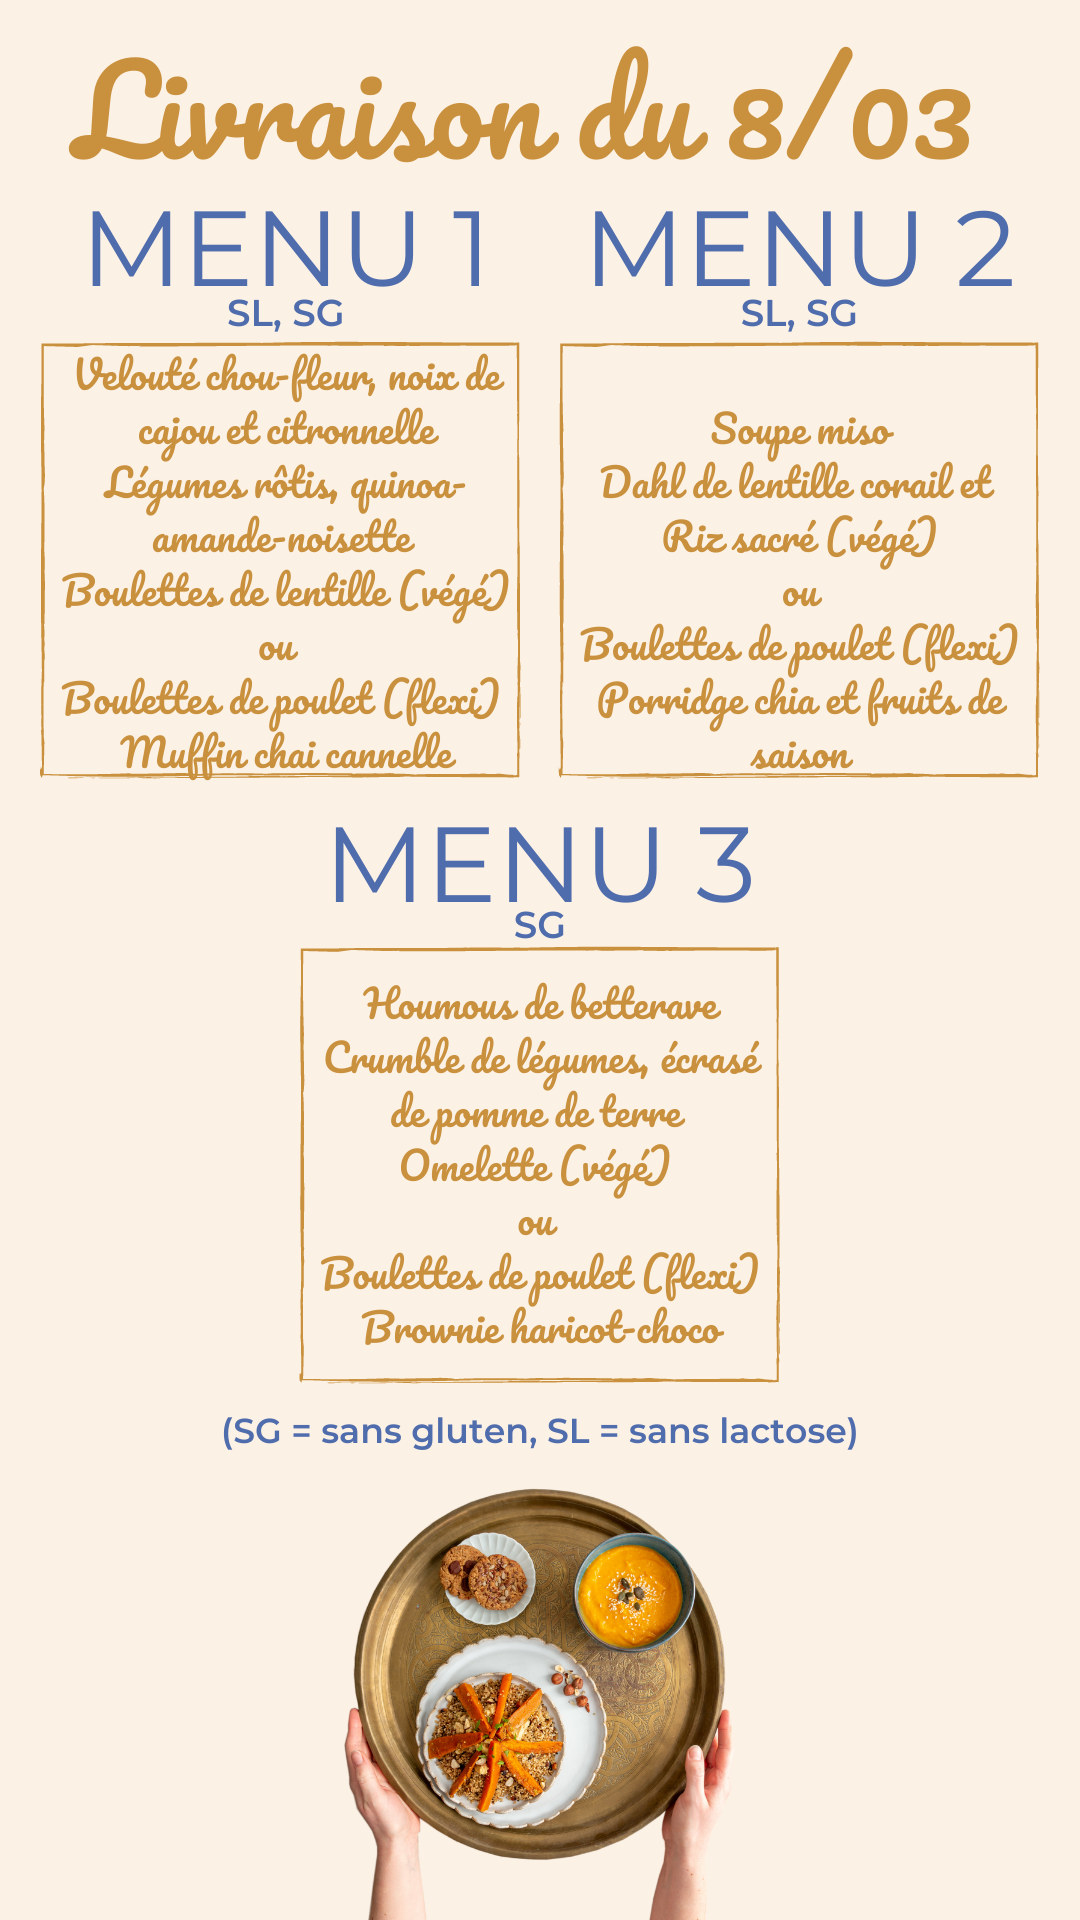
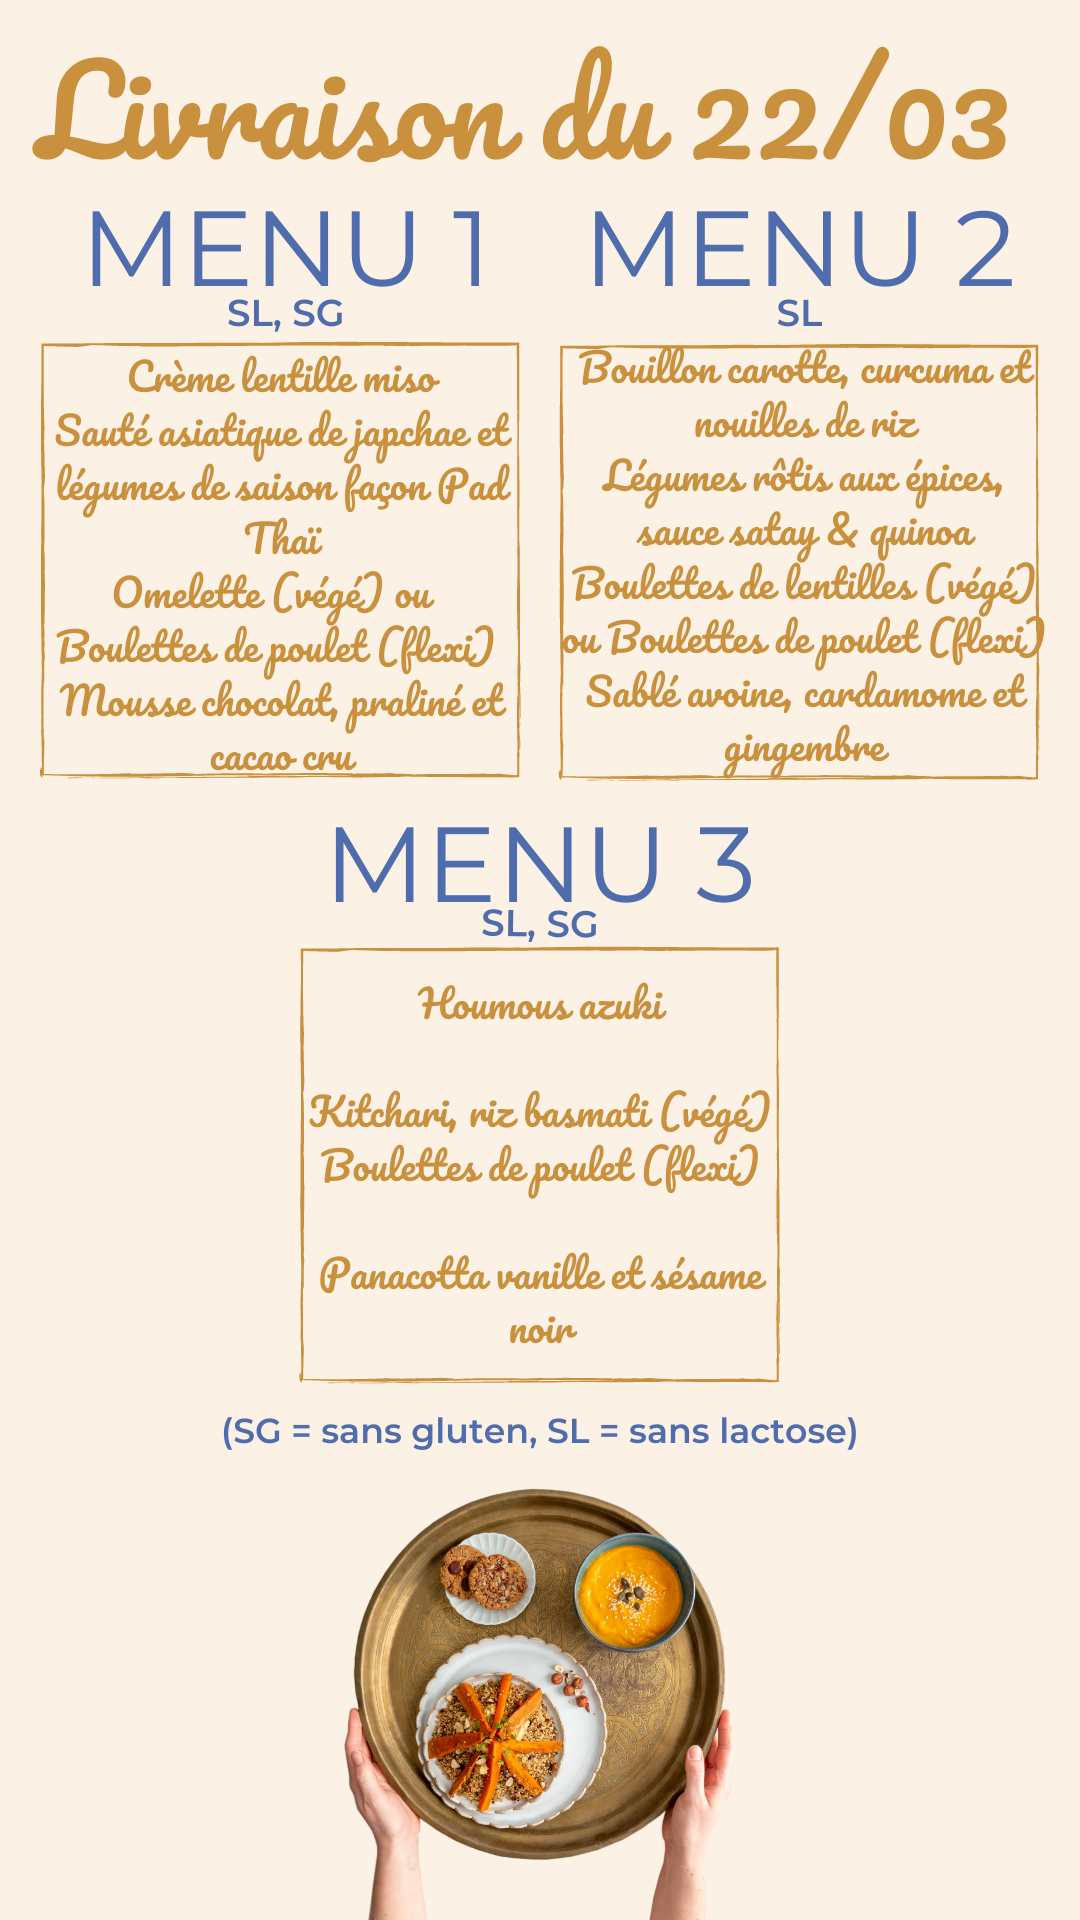
Update menus

diff --git a/src/pages/index.js b/src/pages/index.js
@@ -251,6 +251,11 @@ const Select = styled.select`
   }
 `;
 
+const datesLivraison = {
+  1: "22 mars",
+  2: "29 mars",
+};
+
 // markup
 const IndexPage = () => {
   const [formule, setFormule] = useState("");
@@ -593,7 +598,7 @@ const IndexPage = () => {
             imgStyle={{ objectFit: "contain" }}
           />{" "}
         </div>
-        <Menus />
+        <Menus datesLivraison={datesLivraison} />
         <p>
           La grande majorité de nos menus sont sans gluten et protéines de lait
           de vache (sauf féta et parmesan), cependant n'hésitez pas à nous
@@ -765,8 +770,8 @@ const IndexPage = () => {
             label="Livraison"
             name="date"
             options={[
-              { value: "8 mars", label: "8 mars" },
-              { value: "15 mars", label: "15 mars" },
+              { value: datesLivraison["1"], label: datesLivraison["1"] },
+              { value: datesLivraison["2"], label: datesLivraison["2"] },
             ]}
             onChange={onDateChange}
             selectedValue={date}

diff --git a/src/components/Menus.js b/src/components/Menus.js
@@ -9,7 +9,7 @@ const MenusWrapper = styled.div`
   justify-items: center;
 `;
 
-export const Menus = () => {
+export const Menus = ({ datesLivraison }) => {
   const [menu, setMenu] = React.useState("1");
 
   const handleMenuChange = (e) => {
@@ -21,8 +21,8 @@ export const Menus = () => {
       <RadioGroup
         name="date"
         options={[
-          { value: "1", label: "Menu du 8 mars" },
-          { value: "2", label: "Menu du 15 mars" },
+          { value: "1", label: `Menu du  ${datesLivraison["1"]}` },
+          { value: "2", label: `Menu du  ${datesLivraison["2"]}` },
         ]}
         onChange={handleMenuChange}
         selectedValue={menu}
